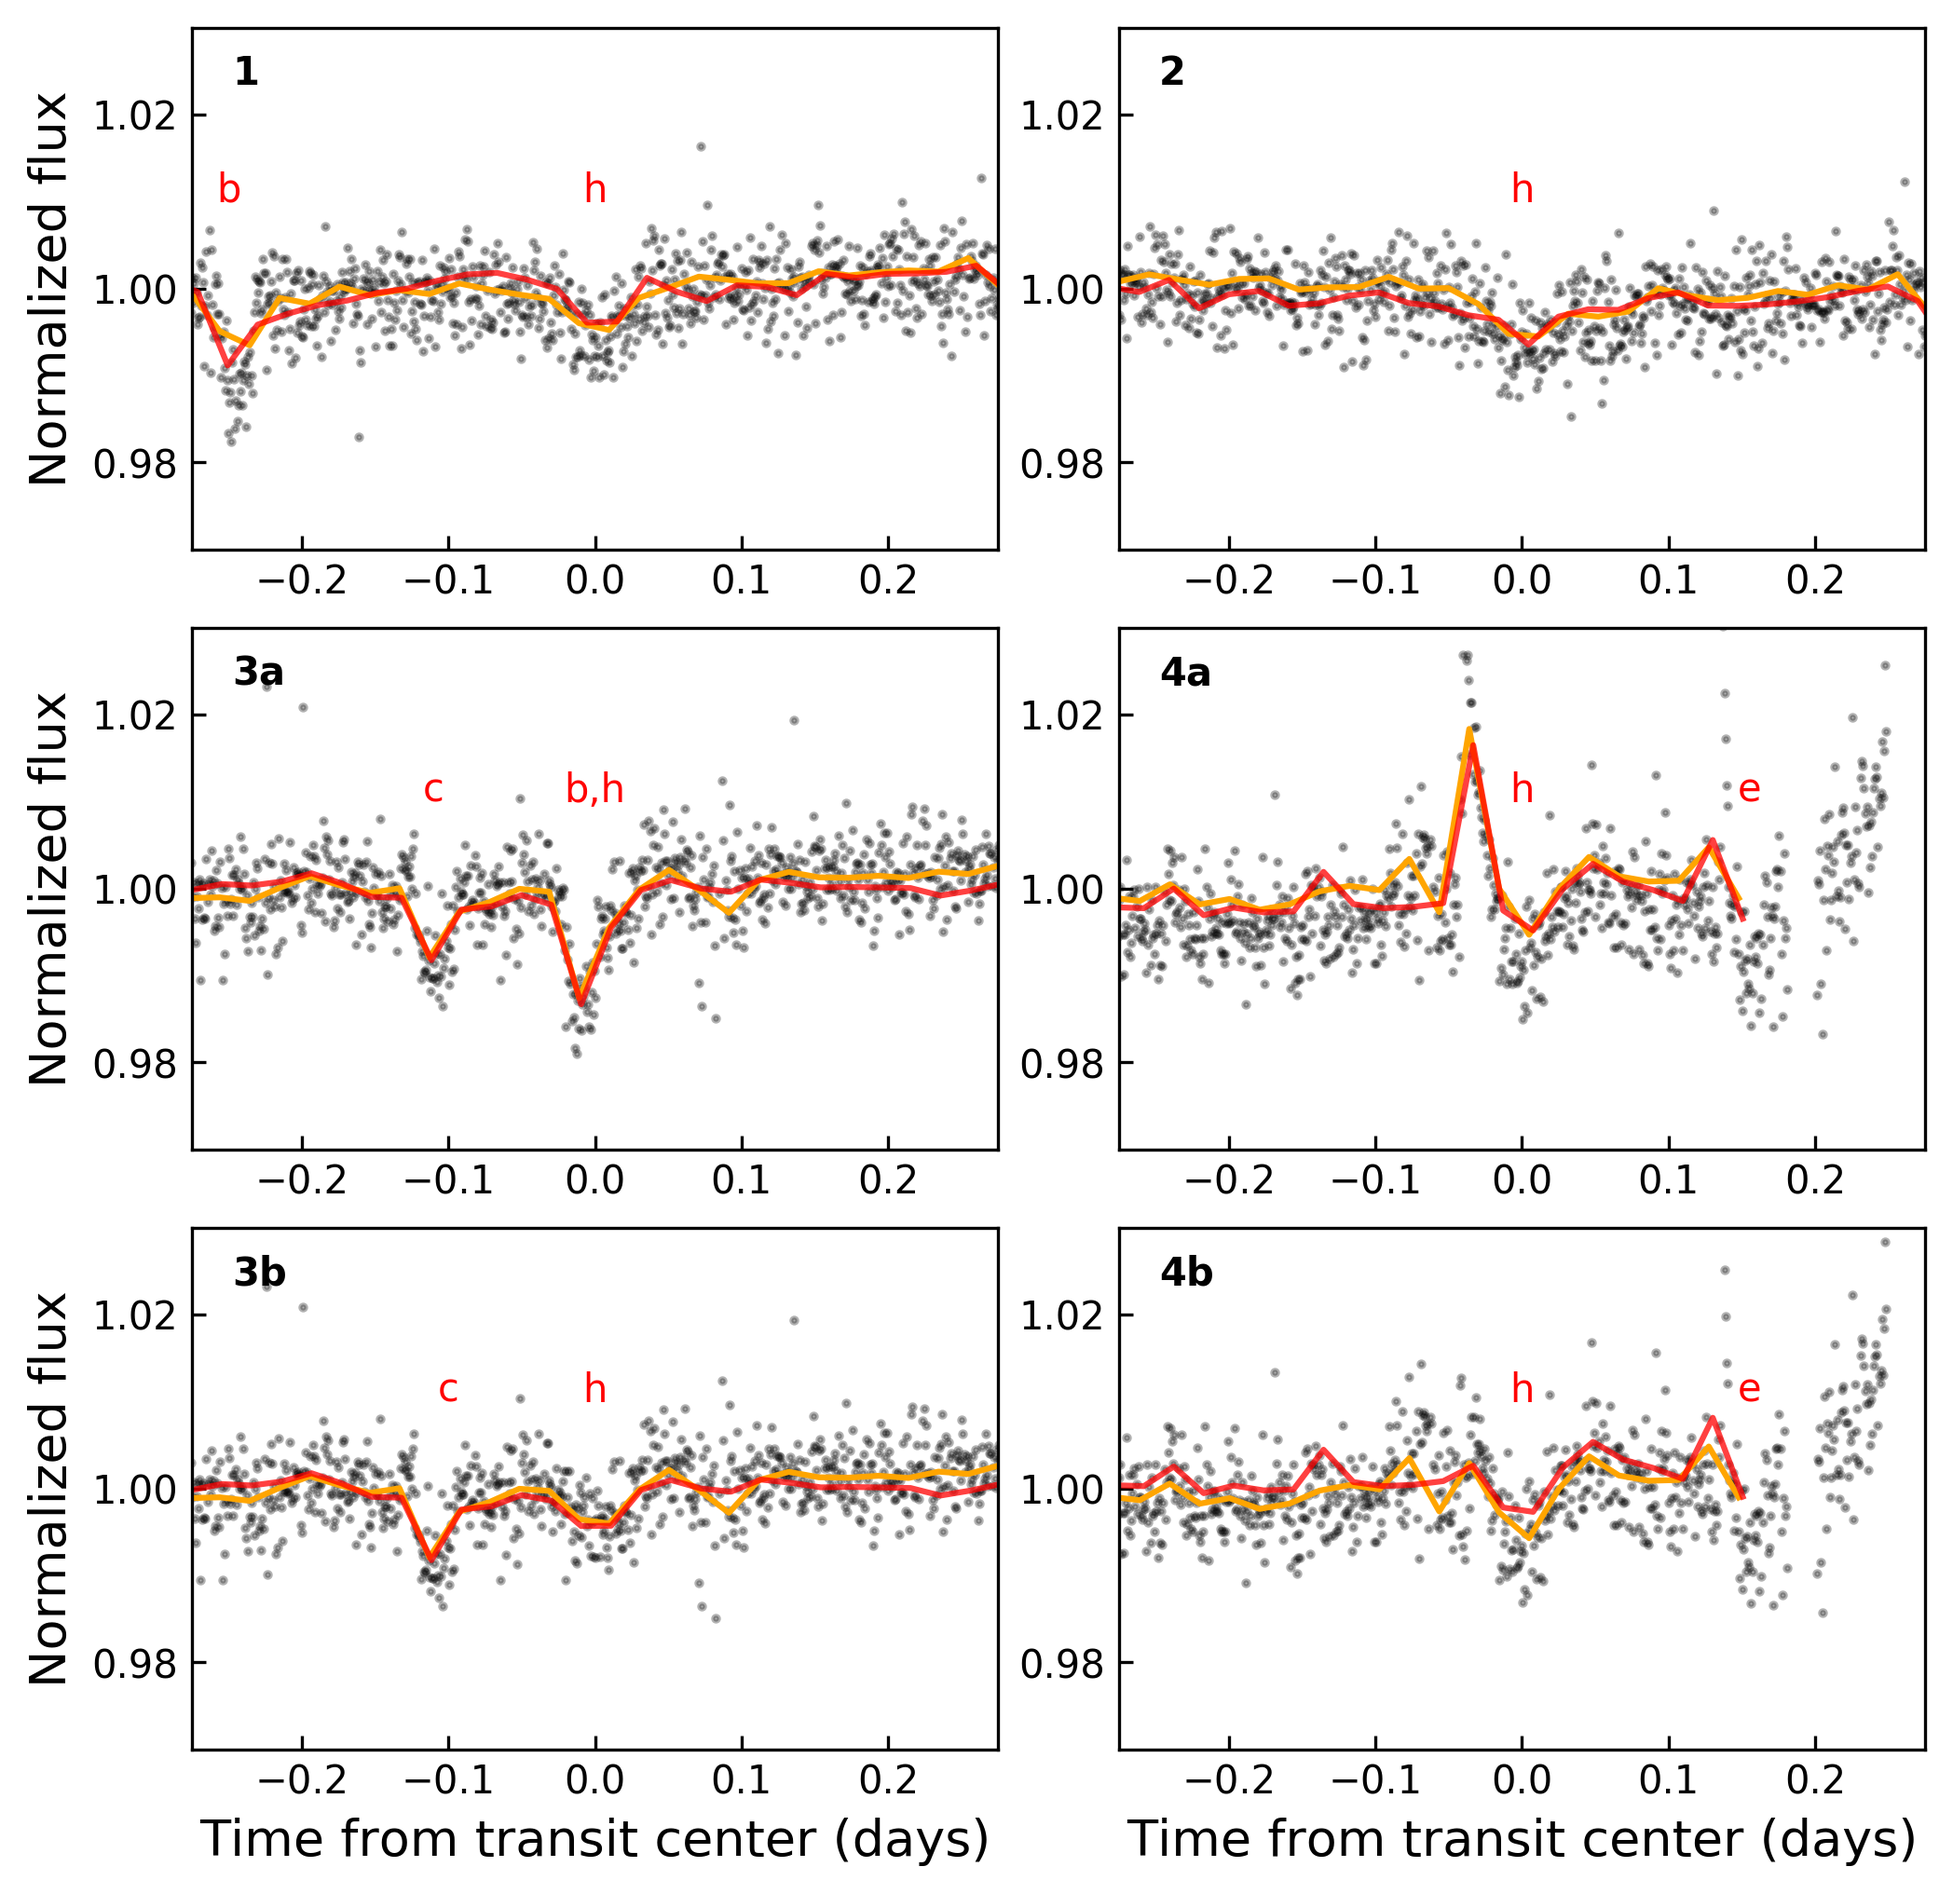
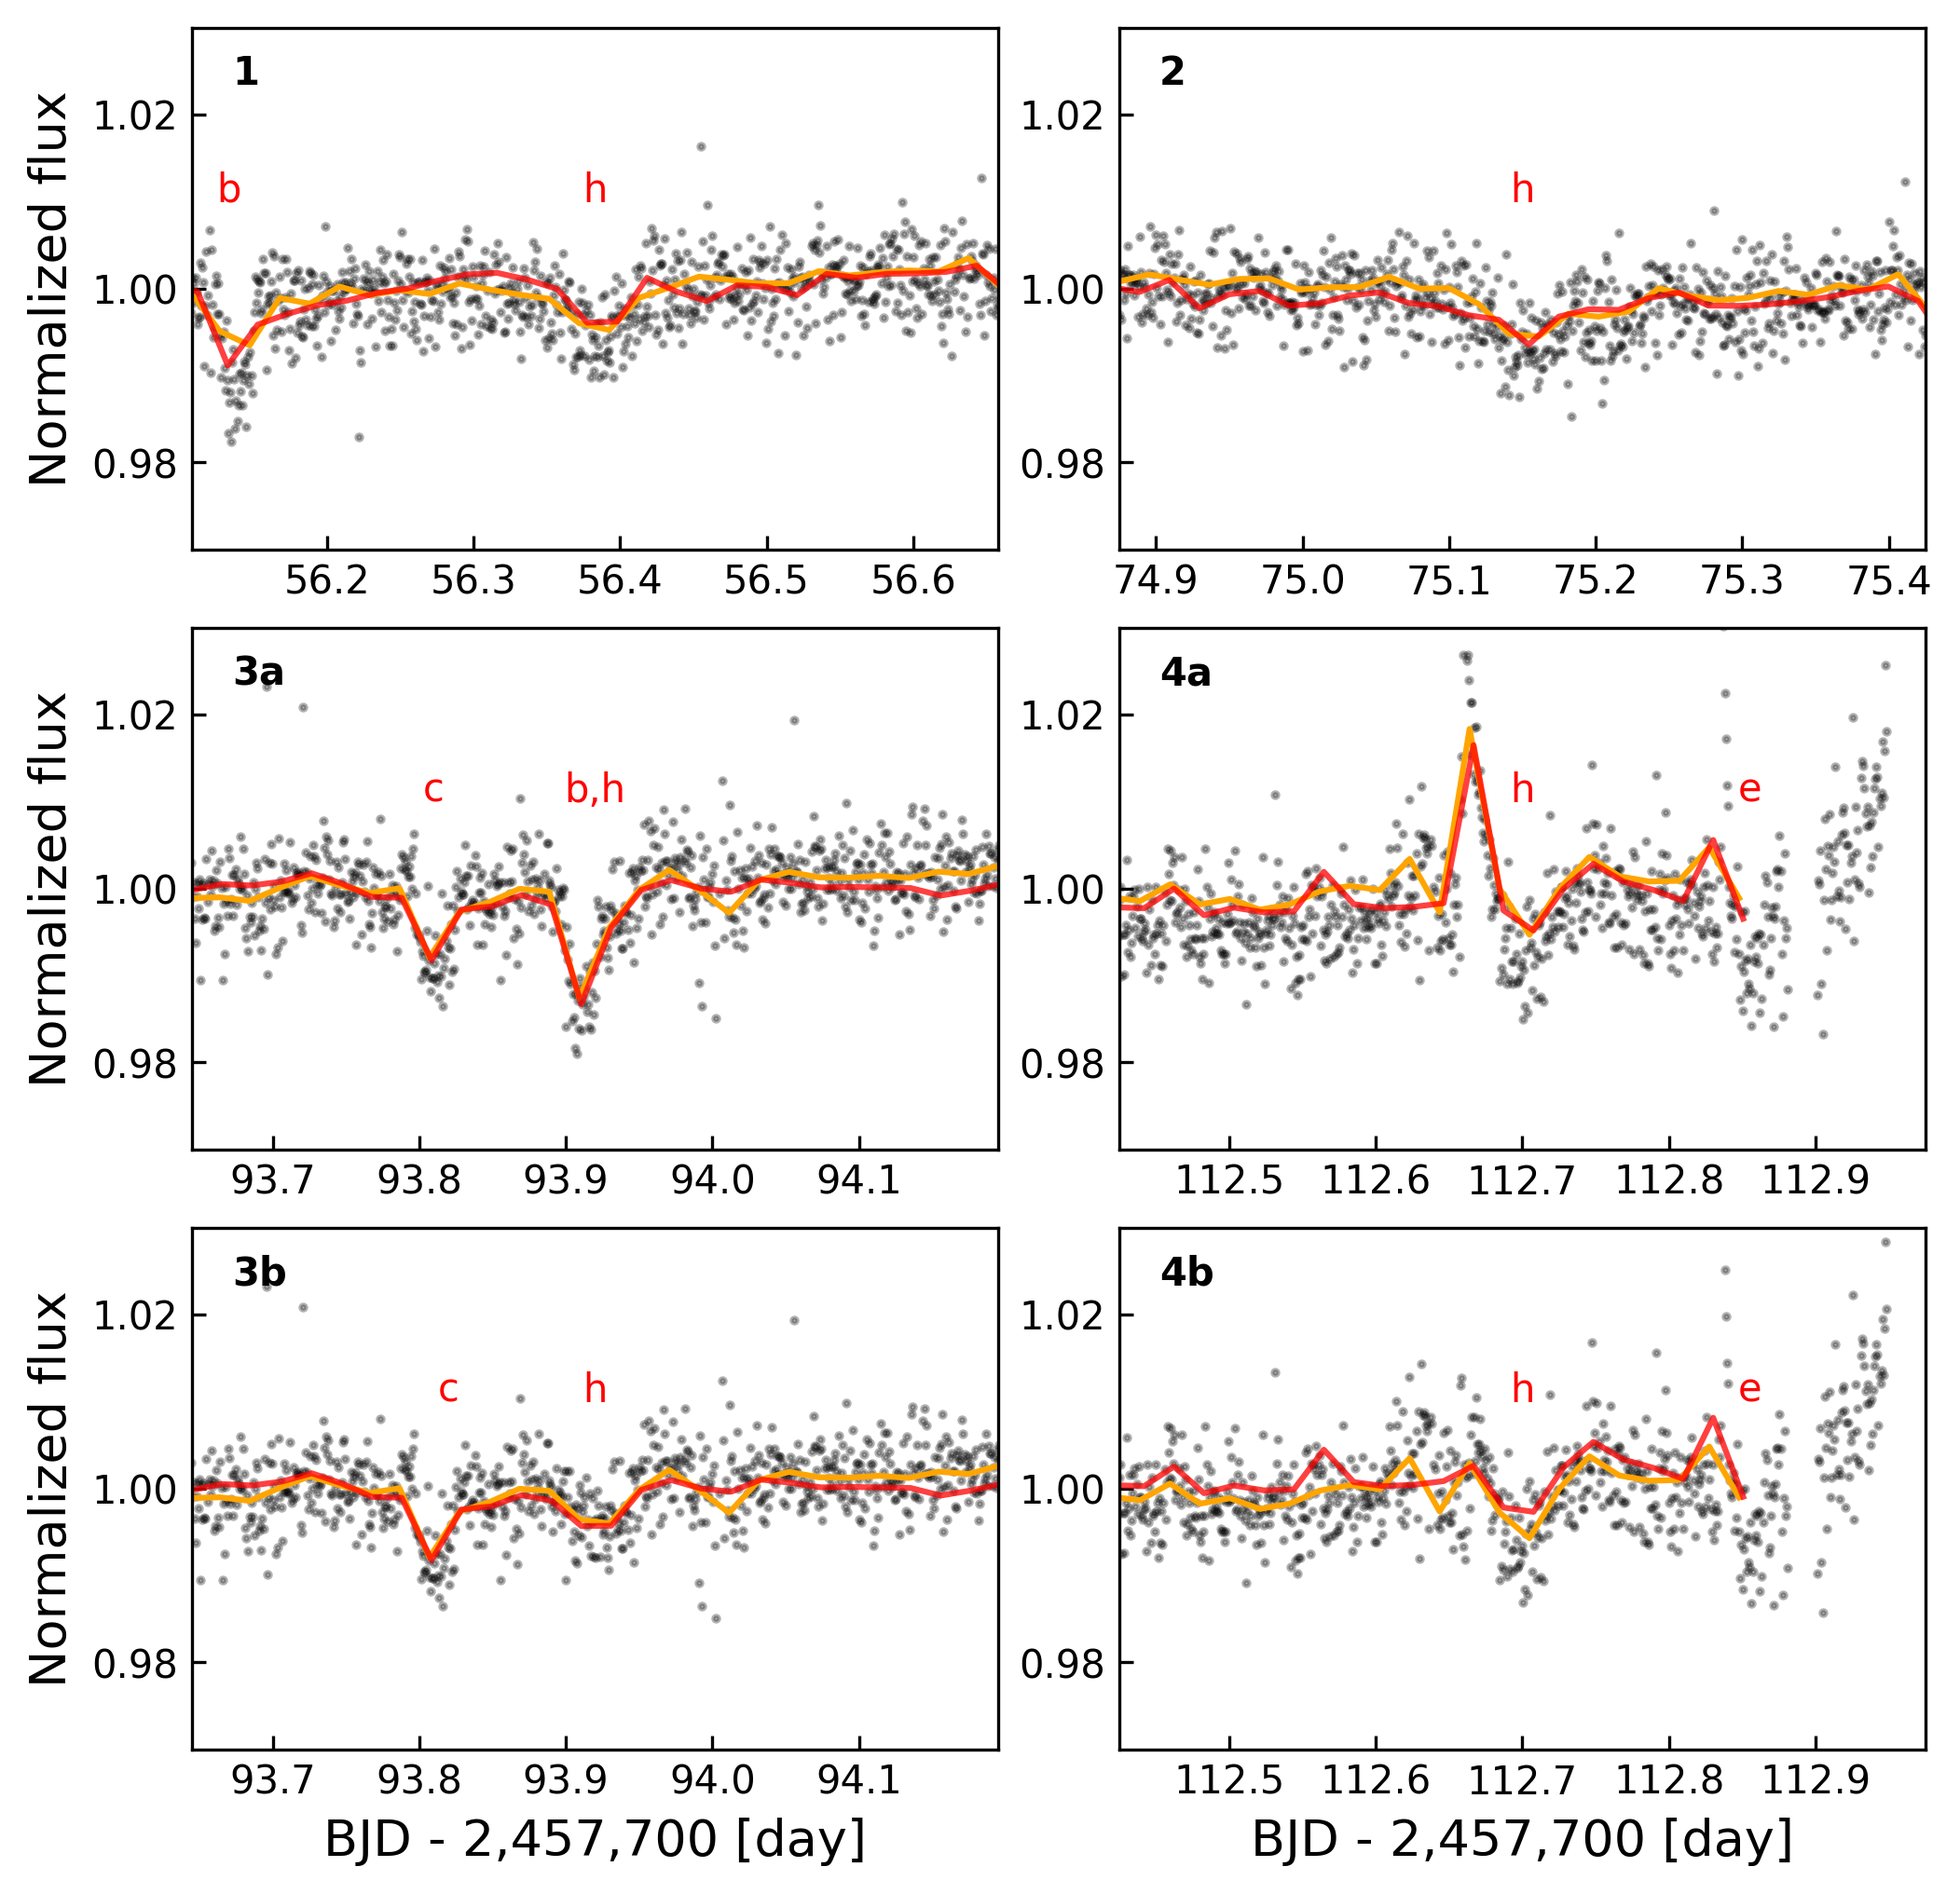
better figure

diff --git a/trappist1.py b/trappist1.py
@@ -357,33 +357,37 @@ def ShortCadence(save = False):
       sc_flux_bin[np.where(sc_time_bin - t0 > 0.161)] = np.nan
   
     # Plot!
-    ax[i].plot(sc_time - t0, sc_flux, 'k.', alpha = 0.3, ms = 3)
-    ax[i].plot(sc_time_bin - t0, sc_flux_bin, color = 'orange', ls = '-', alpha = 1)
-    ax[i].plot(lc_time - t0, lc_flux, 'r-', alpha = 0.75)
+    ax[i].plot(sc_time + BJDOFF, sc_flux, 'k.', alpha = 0.3, ms = 3)
+    ax[i].plot(sc_time_bin + BJDOFF, sc_flux_bin, color = 'orange', ls = '-', alpha = 1)
+    ax[i].plot(lc_time + BJDOFF, lc_flux, 'r-', alpha = 0.75)
     
     # Lims and labels
     ax[i].set_ylim(0.97, 1.03)
-    ax[i].set_xlim(-0.275, 0.275)
+    ax[i].set_xlim(t0 + BJDOFF - 0.275, t0 + BJDOFF + 0.275)
     if i == 4 or i == 5:
-      ax[i].set_xlabel('Time from transit center (days)', fontsize = 13)
+      ax[i].set_xlabel('BJD - 2,457,700 [day]', fontsize = 13)
     if i == 0 or i == 2 or i == 4:
       ax[i].set_ylabel('Normalized flux', fontsize = 13)
     ax[i].annotate(label, xy = (0.05, 0.95), xycoords = 'axes fraction', ha = 'left', va = 'top', fontsize = 10, fontweight = 'bold')
 
-  # Mark the other visible planets
-  ax[0].annotate('b', xy = (-0.25, 1.01), color = 'r', ha = 'center')
-  ax[2].annotate('c', xy = (-0.11, 1.01), color = 'r', ha = 'center')
-  ax[2].annotate('b,h', xy = (0, 1.01), color = 'r', ha = 'center')
-  ax[3].annotate('e', xy = (0.155, 1.01), color = 'r', ha = 'center')
-  ax[4].annotate('c', xy = (-0.1, 1.01), color = 'r', ha = 'center')
-  ax[5].annotate('e', xy = (0.155, 1.01), color = 'r', ha = 'center')
-
-  # Mark our guesses
-  ax[0].annotate('h', xy = (0, 1.01), color = 'r', ha = 'center')
-  ax[1].annotate('h', xy = (0., 1.01), color = 'r', ha = 'center')
-  ax[3].annotate('h', xy = (0., 1.01), color = 'r', ha = 'center')
-  ax[4].annotate('h', xy = (0., 1.01), color = 'r', ha = 'center')
-  ax[5].annotate('h', xy = (0., 1.01), color = 'r', ha = 'center')
+    # Mark all visible planets
+    if i == 0:
+      ax[i].annotate('h', xy = (t0 + BJDOFF, 1.01), color = 'r', ha = 'center')
+      ax[i].annotate('b', xy = (t0 + BJDOFF - 0.25, 1.01), color = 'r', ha = 'center')
+    elif i == 1:
+      ax[i].annotate('h', xy = (t0 + BJDOFF, 1.01), color = 'r', ha = 'center')
+    elif i == 2:
+      ax[i].annotate('c', xy = (t0 + BJDOFF - 0.11, 1.01), color = 'r', ha = 'center')
+      ax[i].annotate('b,h', xy = (t0 + BJDOFF, 1.01), color = 'r', ha = 'center')
+    elif i == 3:
+      ax[i].annotate('e', xy = (t0 + BJDOFF + 0.155, 1.01), color = 'r', ha = 'center')
+      ax[i].annotate('h', xy = (t0 + BJDOFF, 1.01), color = 'r', ha = 'center')
+    elif i == 4:
+      ax[i].annotate('c', xy = (t0 + BJDOFF - 0.1, 1.01), color = 'r', ha = 'center')
+      ax[i].annotate('h', xy = (t0 + BJDOFF, 1.01), color = 'r', ha = 'center')
+    elif i == 5:
+      ax[i].annotate('e', xy = (t0 + BJDOFF + 0.155, 1.01), color = 'r', ha = 'center')
+      ax[i].annotate('h', xy = (t0 + BJDOFF, 1.01), color = 'r', ha = 'center')
 
   # Plot folded
   figfold = pl.figure(figsize = (7,5))
@@ -471,13 +475,13 @@ if __name__ == '__main__':
       shutil.copy(os.path.join(TRAPPIST_OUT, file), TRAPPIST_EVEREST_DAT)
   
   # Folded light curve for all planets
-  PlotFolded(save = True)
+  #PlotFolded(save = True)
   
   # Figures 2, 3, 4
   ShortCadence(save = True)
   
   # Figure 5
-  DeltaChisq(save = True)
+  #DeltaChisq(save = True)
   
   # Figure 6
-  PowerSpectrum(save = True)
+  #PowerSpectrum(save = True)
